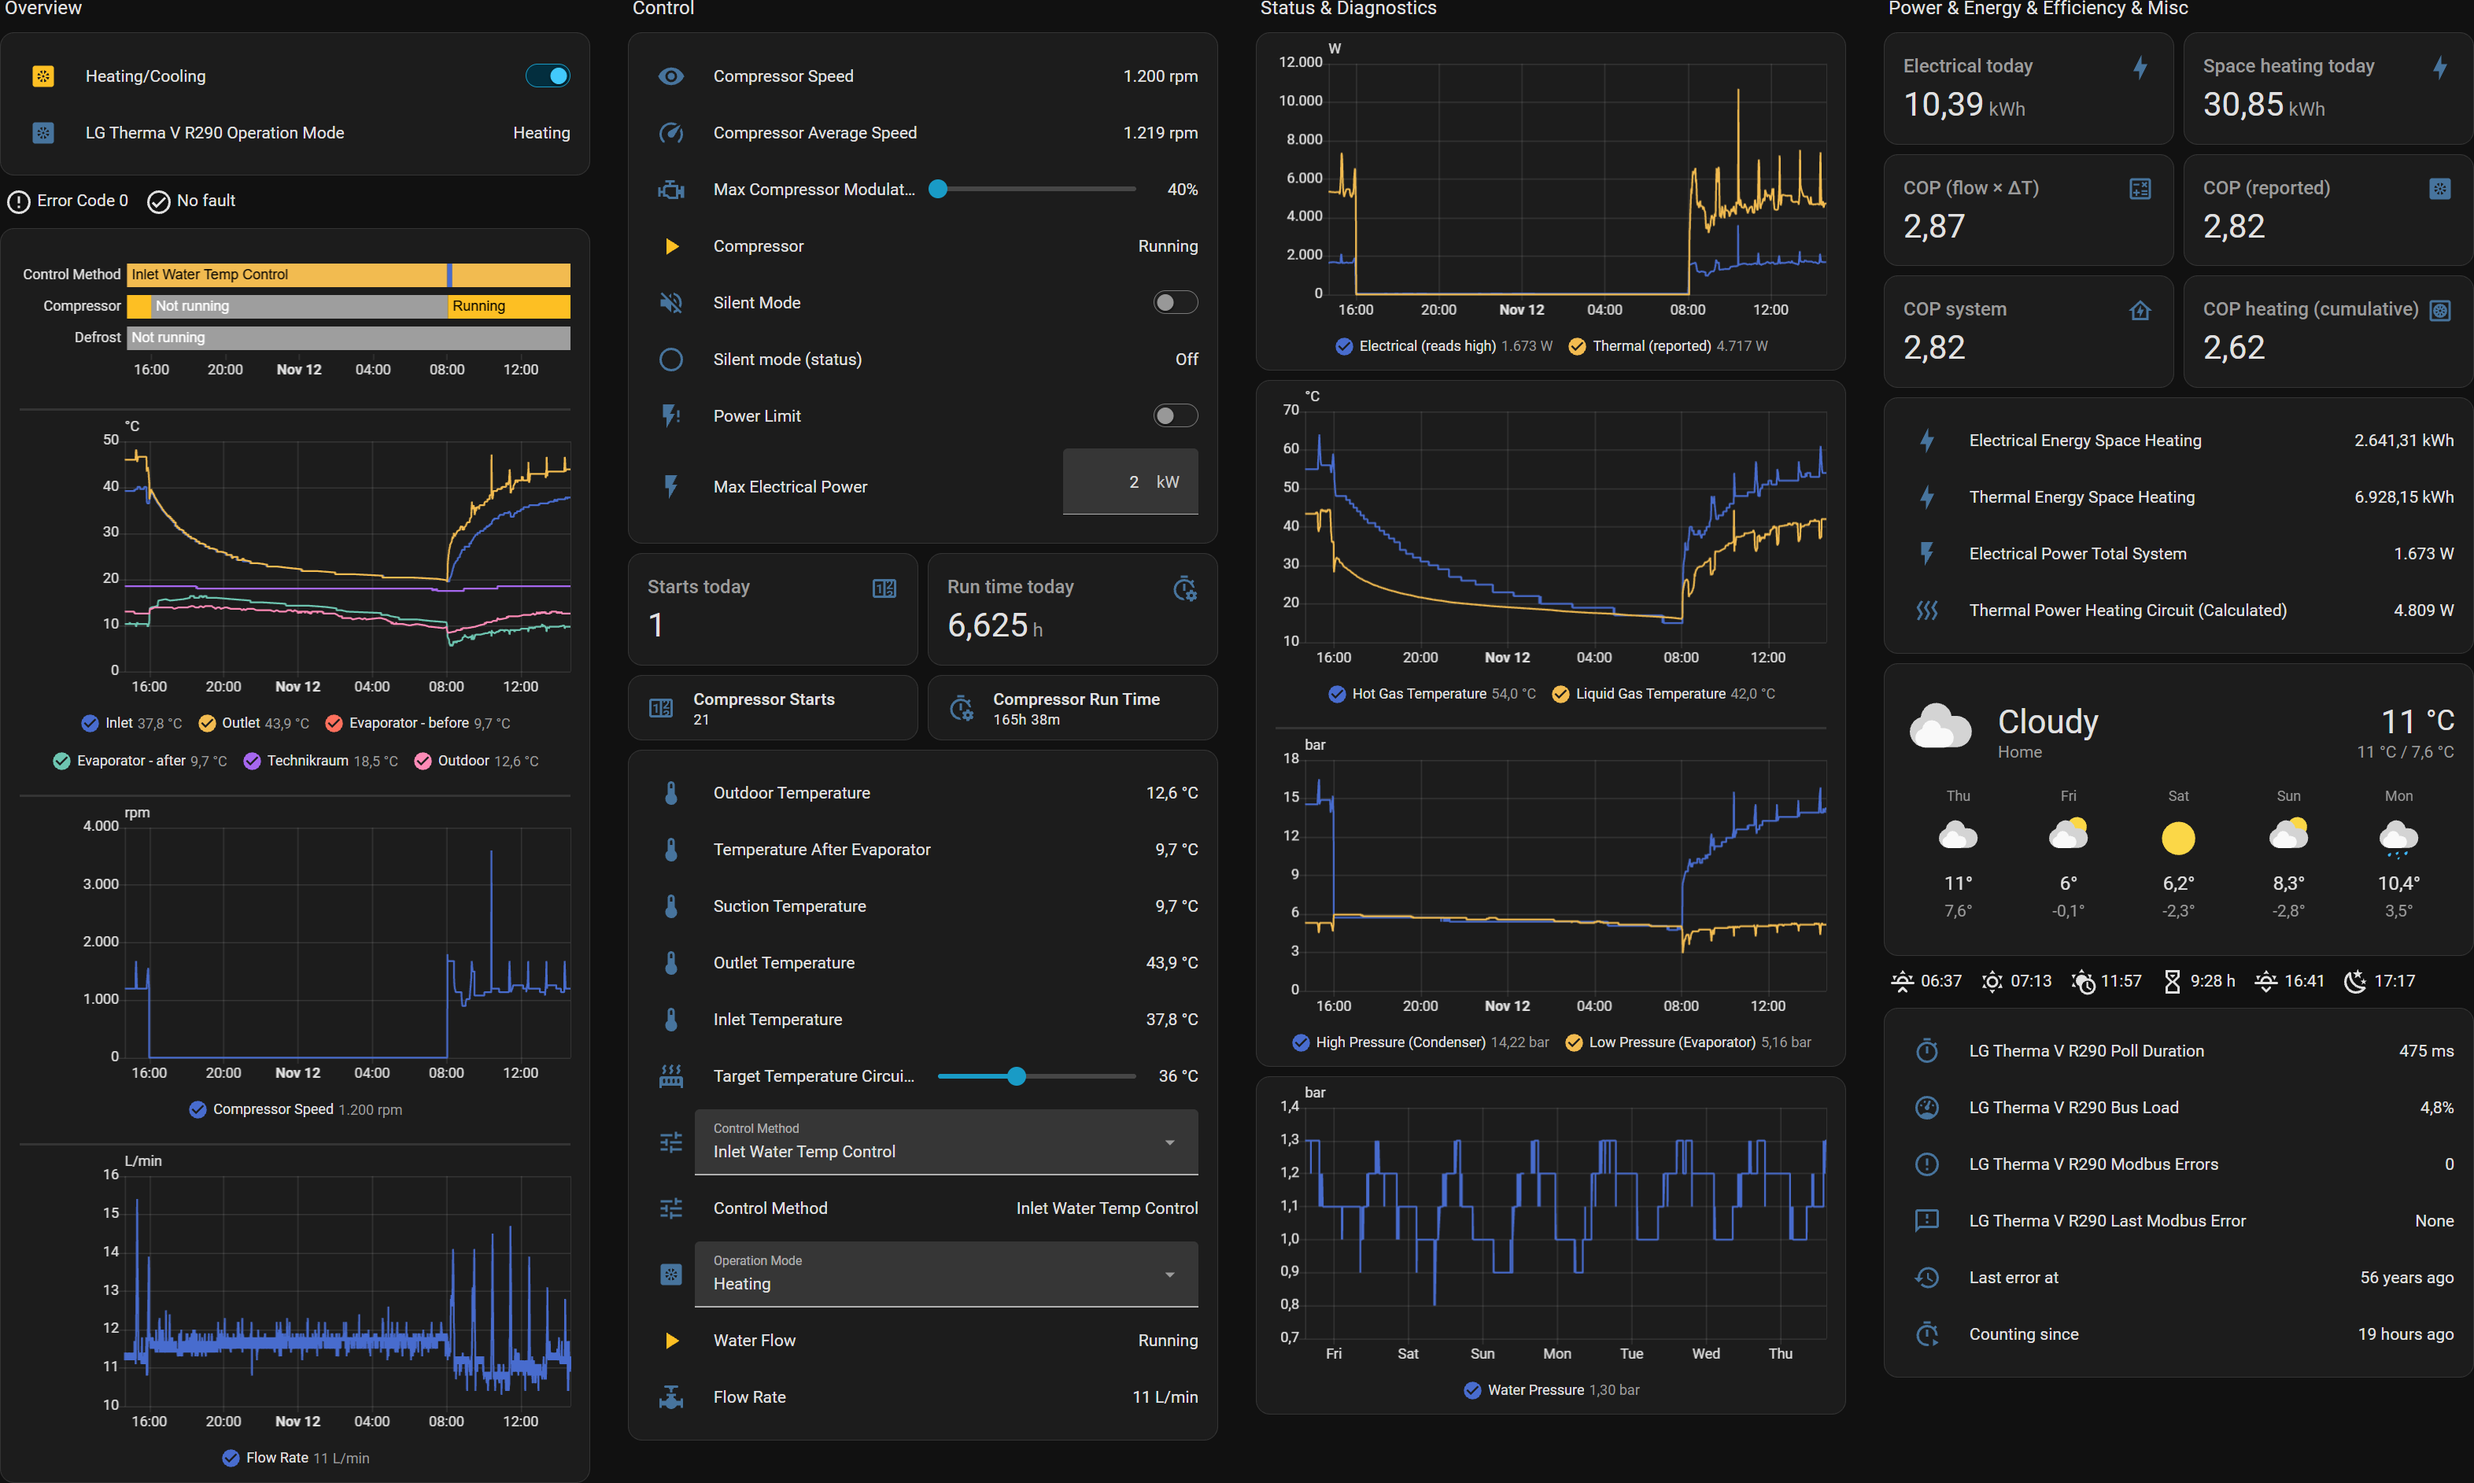
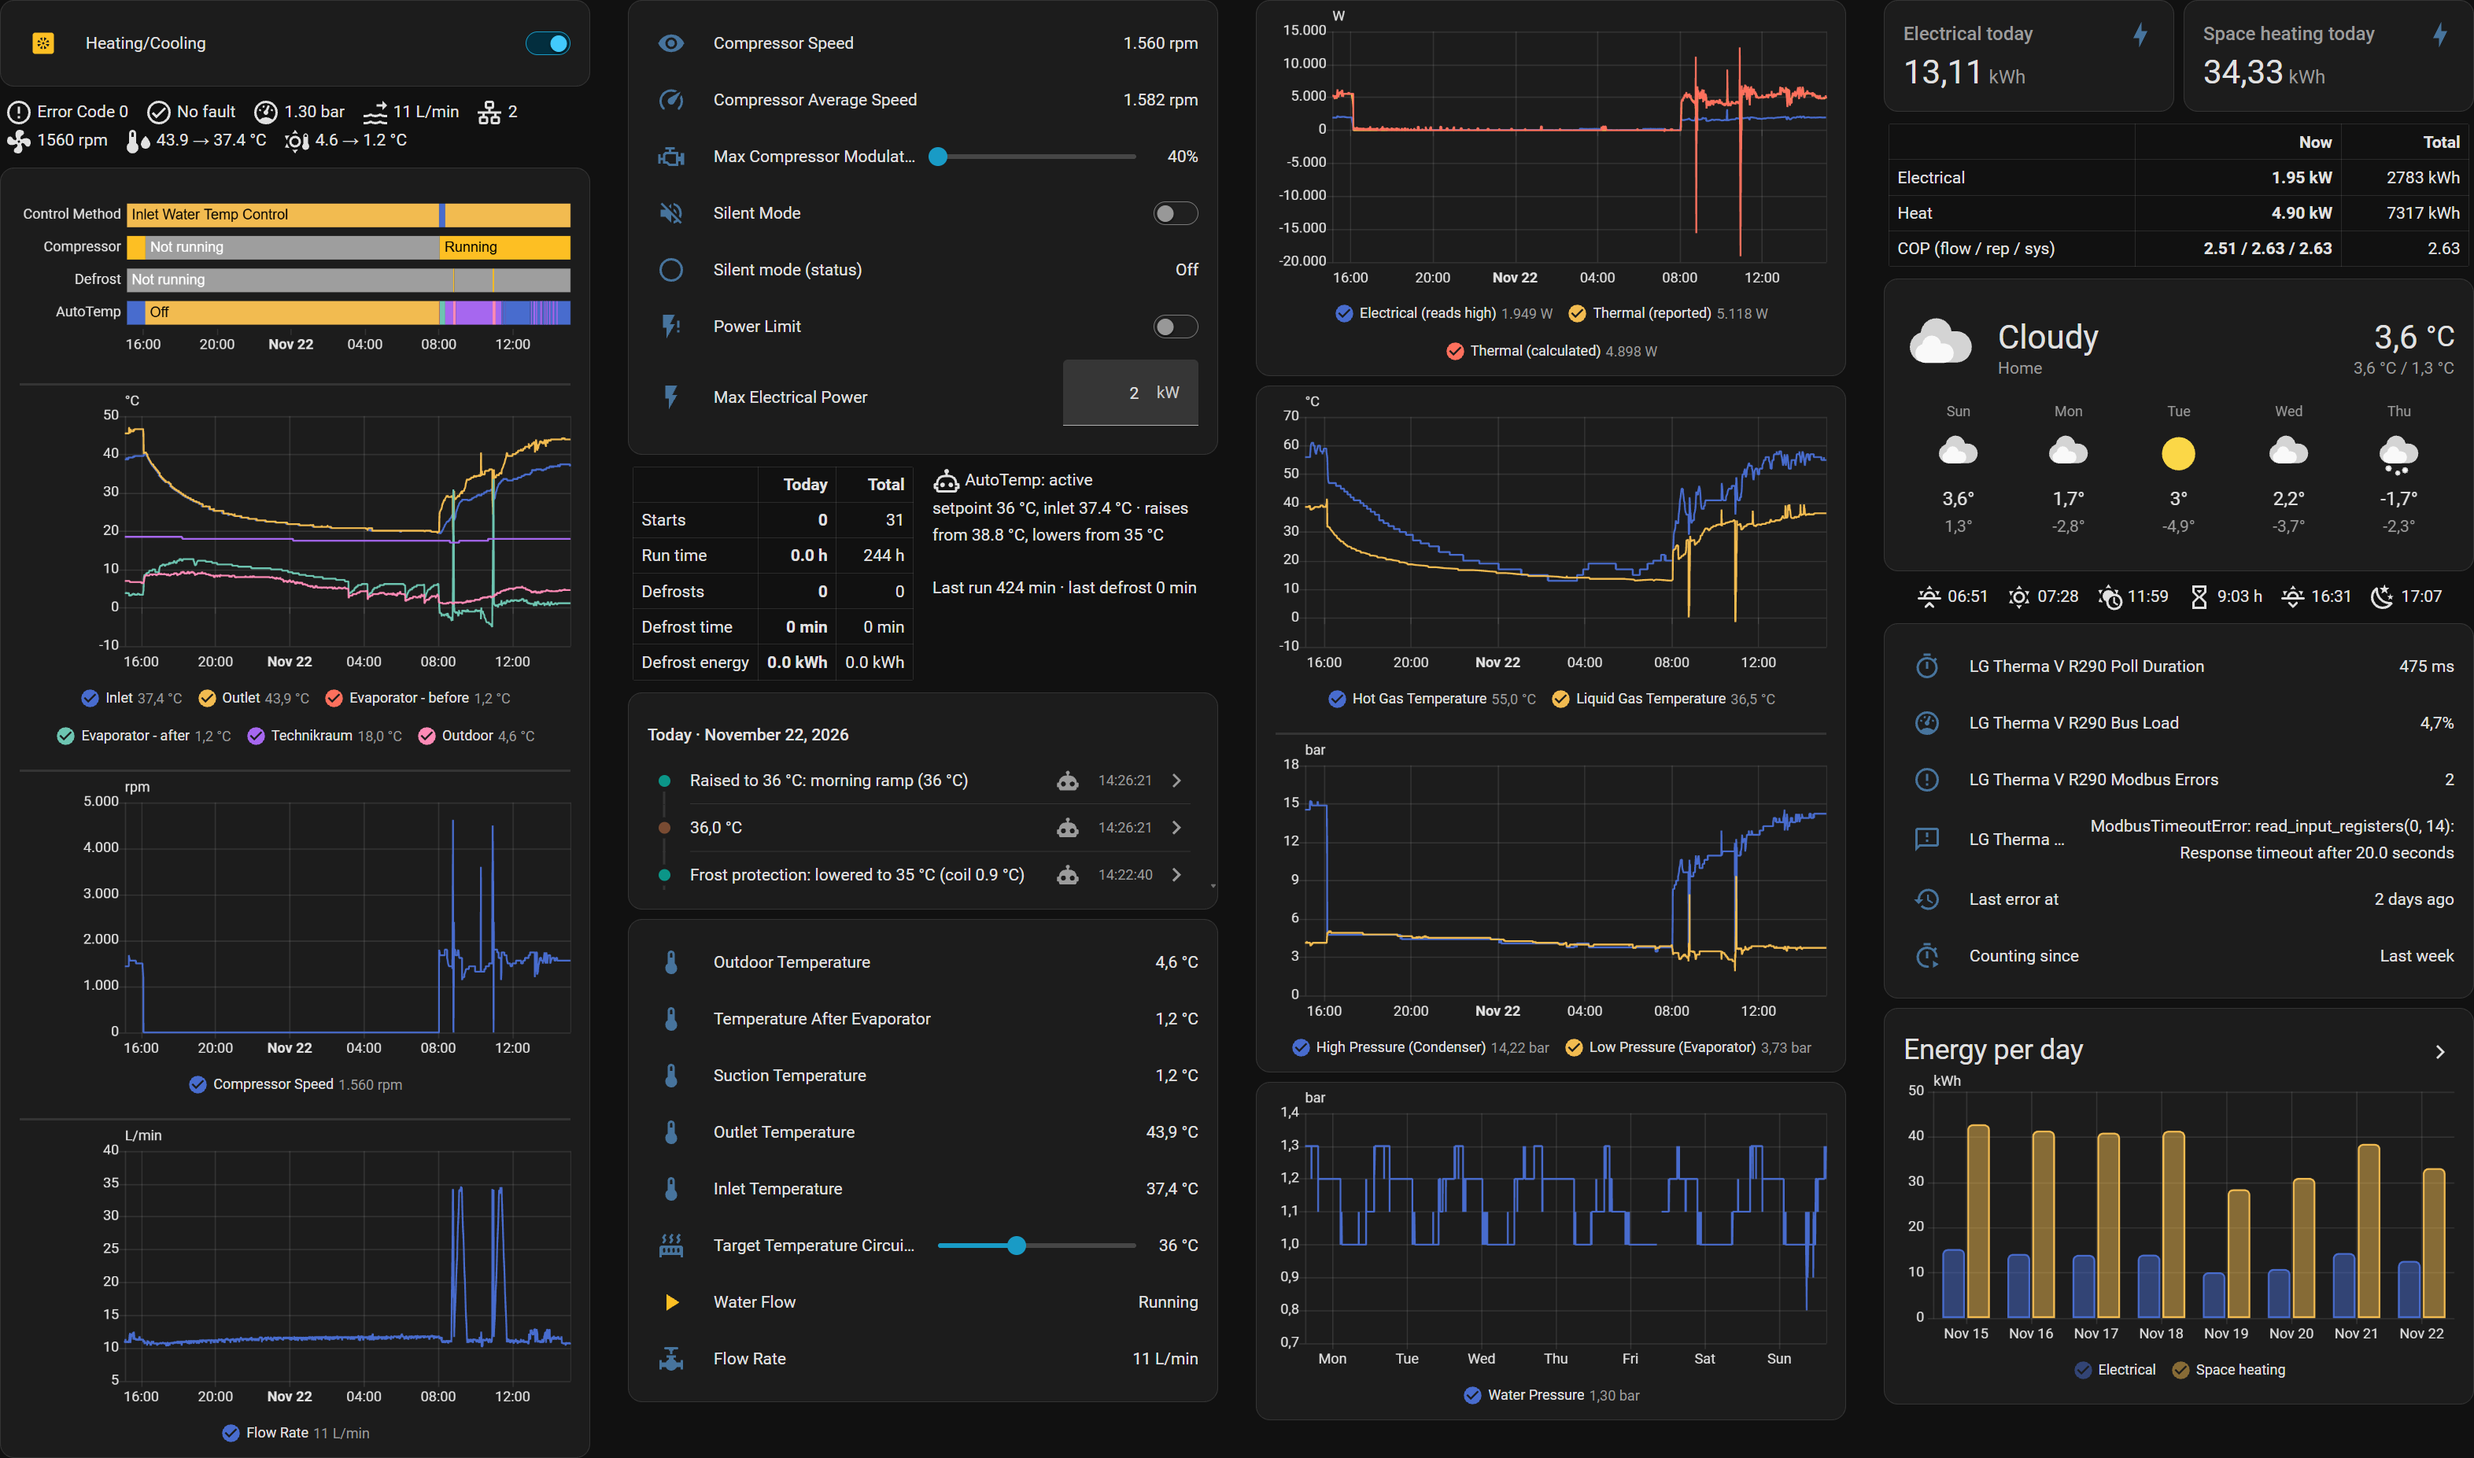
Dashboard screenshot of the new full view (lossless WebP, unscaled)
Claude-Session: https://claude.ai/code/session_013qnsDndt1Ld1zPCjgMFXjX

diff --git a/README.md b/README.md
@@ -8,7 +8,7 @@ Based on [cjungde/ha-lg-thermav-modbus](https://github.com/cjungde/ha-lg-thermav
 
 Replaces a hand-crafted YAML Modbus configuration with native HA entities: sensors, binary sensors, switches, buttons, number inputs, and select dropdowns — all updated on every poll cycle without requiring template sensors or automations.
 
-<img src="docs/images/dashboard-readme.webp" alt="Dashboard on a 12 kW unit while heating: error code and fault in one line, 24 h history of temperatures, compressor speed and flow rate; compressor controls with starts and run time today; 24 h graphs of electrical and thermal power, refrigerant temperatures and pressures, a week of water pressure; today's energy and COP as big-number cards, counters, weather with the sun line and poll statistics">
+<img src="docs/images/dashboard-readme.webp" alt="Dashboard on a 12 kW unit while heating: a two-line quick view (error code, fault, water pressure, flow, Modbus errors; compressor speed, outlet → inlet, outdoor → coil), 24 h history of temperatures, compressor speed and flow rate; compressor controls with a table of starts and defrosts, today and total; 24 h graphs of electrical and thermal power (reported and calculated), refrigerant temperatures and pressures, a week of water pressure; today's energy, a table of power, energy and COP, weather with the sun line, poll statistics and energy per day">
 
 *A dashboard built from Home Assistant's own cards; ready-to-paste examples are in [docs/dashboard.md](docs/dashboard.md). Example automations for a heating day, with the setpoint following the inlet temperature so the compressor keeps running: [docs/automations.md](docs/automations.md).*
 
